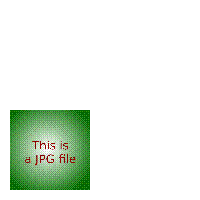
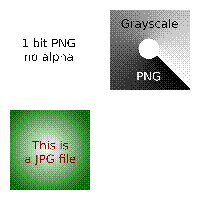
Add some more image methods.

Changed region(s): [[0.54, 0.03, 0.96, 0.45], [0.12, 0.18, 0.39, 0.24], [0.12, 0.27, 0.39, 0.33]]

diff --git a/test/a4pdftests.py b/test/a4pdftests.py
@@ -41,7 +41,7 @@ def validate_image(basename, w, h):
             utobj = args[0]
             pngname = pathlib.Path(basename + '.png')
             pdfname = pathlib.Path(basename + '.pdf')
-            args = (args[0], pdfname)
+            args = (args[0], pdfname, w, h)
             try:
                 pdfname.unlink()
             except Exception:
@@ -72,7 +72,7 @@ def validate_image(basename, w, h):
 class TestPDFCreation(unittest.TestCase):
 
     @validate_image('python_simple', 480, 640)
-    def test_simple(self, ofilename):
+    def test_simple(self, ofilename, w, h):
         ofile = pathlib.Path(ofilename)
         with a4pdf.Generator(ofile) as g:
             with g.page_draw_context() as ctx:
@@ -81,9 +81,9 @@ class TestPDFCreation(unittest.TestCase):
                 ctx.cmd_f()
 
     @validate_image('python_text', 400, 400)
-    def test_text(self, ofilename):
+    def test_text(self, ofilename, w, h):
         opts = a4pdf.Options()
-        opts.set_mediabox(0, 0, 400, 400)
+        opts.set_mediabox(0, 0, w, h)
         with a4pdf.Generator(ofilename, opts) as g:
             fid = g.load_font('/usr/share/fonts/truetype/noto/NotoSans-Regular.ttf')
             with g.page_draw_context() as ctx:
@@ -112,17 +112,27 @@ class TestPDFCreation(unittest.TestCase):
         ofile.unlink()
 
     @validate_image('python_image', 200, 200)
-    def test_images(self, ofilename):
+    def test_images(self, ofilename, w, h):
         opts = a4pdf.Options()
-        opts.set_mediabox(0, 0, 200, 200)
+        opts.set_mediabox(0, 0, w, h)
         with a4pdf.Generator(ofilename) as g:
             bg_img = g.embed_jpg(image_dir / 'simple.jpg')
+            mono_img = g.load_image(image_dir / '1bit_noalpha.png')
+            gray_img = g.load_image(image_dir / 'gray_alpha.png')
             with g.page_draw_context() as ctx:
                 with ctx.push_gstate():
                     ctx.translate(10, 10)
                     ctx.scale(80, 80)
                     ctx.draw_image(bg_img)
-
+                with ctx.push_gstate():
+                    ctx.translate(0, 100)
+                    ctx.translate(10, 10)
+                    ctx.scale(80, 80)
+                    ctx.draw_image(mono_img)
+                with ctx.push_gstate():
+                    ctx.translate(110, 110)
+                    ctx.scale(80, 80)
+                    ctx.draw_image(gray_img)
 
 if __name__ == "__main__":
     unittest.main()

diff --git a/src/pdfcapi.cpp b/src/pdfcapi.cpp
@@ -81,7 +81,29 @@ A4PDF_PUBLIC A4PDF_EC a4pdf_generator_load_font(A4PDF_Generator *g,
                                                 const char *fname,
                                                 A4PDF_FontId *fid) A4PDF_NOEXCEPT {
     auto *gen = reinterpret_cast<PdfGen *>(g);
-    *fid = gen->load_font(fname);
+    try {
+        *fid = gen->load_font(fname);
+    } catch(const std::exception &e) {
+        fprintf(stderr, "%s\n", e.what());
+        return (A4PDF_EC)ErrorCode::DynamicError;
+    } catch(...) {
+        return (A4PDF_EC)ErrorCode::DynamicError;
+    }
+    return (A4PDF_EC)ErrorCode::NoError;
+}
+
+A4PDF_PUBLIC A4PDF_EC a4pdf_generator_load_image(A4PDF_Generator *g,
+                                                 const char *fname,
+                                                 A4PDF_ImageId *iid) A4PDF_NOEXCEPT {
+    auto *gen = reinterpret_cast<PdfGen *>(g);
+    try {
+        *iid = gen->load_image(fname);
+    } catch(const std::exception &e) {
+        fprintf(stderr, "%s\n", e.what());
+        return (A4PDF_EC)ErrorCode::DynamicError;
+    } catch(...) {
+        return (A4PDF_EC)ErrorCode::DynamicError;
+    }
     return (A4PDF_EC)ErrorCode::NoError;
 }
 
@@ -93,9 +115,6 @@ A4PDF_EC a4pdf_generator_write(A4PDF_Generator *generator) A4PDF_NOEXCEPT {
 A4PDF_EC a4pdf_generator_destroy(A4PDF_Generator *generator) A4PDF_NOEXCEPT {
     auto *g = reinterpret_cast<PdfGen *>(generator);
     auto rc = (A4PDF_EC)ErrorCode::NoError;
-    if(g->num_pages() == 0) {
-        rc = (A4PDF_EC)ErrorCode::NoPages;
-    }
     delete g;
     return rc;
 }

diff --git a/python/a4pdf.py b/python/a4pdf.py
@@ -221,7 +221,10 @@ class Generator:
         return self
 
     def __exit__(self, exc_type, exc_value, exc_tb):
-        self.write()
+        if exc_type is None:
+            self.write()
+        else:
+            return False
 
     def page_draw_context(self):
         return DrawContext(self)
@@ -238,6 +241,11 @@ class Generator:
         fid = FontId()
         check_error(libfile.a4pdf_generator_load_font(self, to_bytepath(fname), ctypes.pointer(fid)))
         return fid
+
+    def load_image(self, fname):
+        iid = ImageId()
+        check_error(libfile.a4pdf_generator_load_image(self, to_bytepath(fname), ctypes.pointer(iid)))
+        return iid
 
     def write(self):
         check_error(libfile.a4pdf_generator_write(self))
